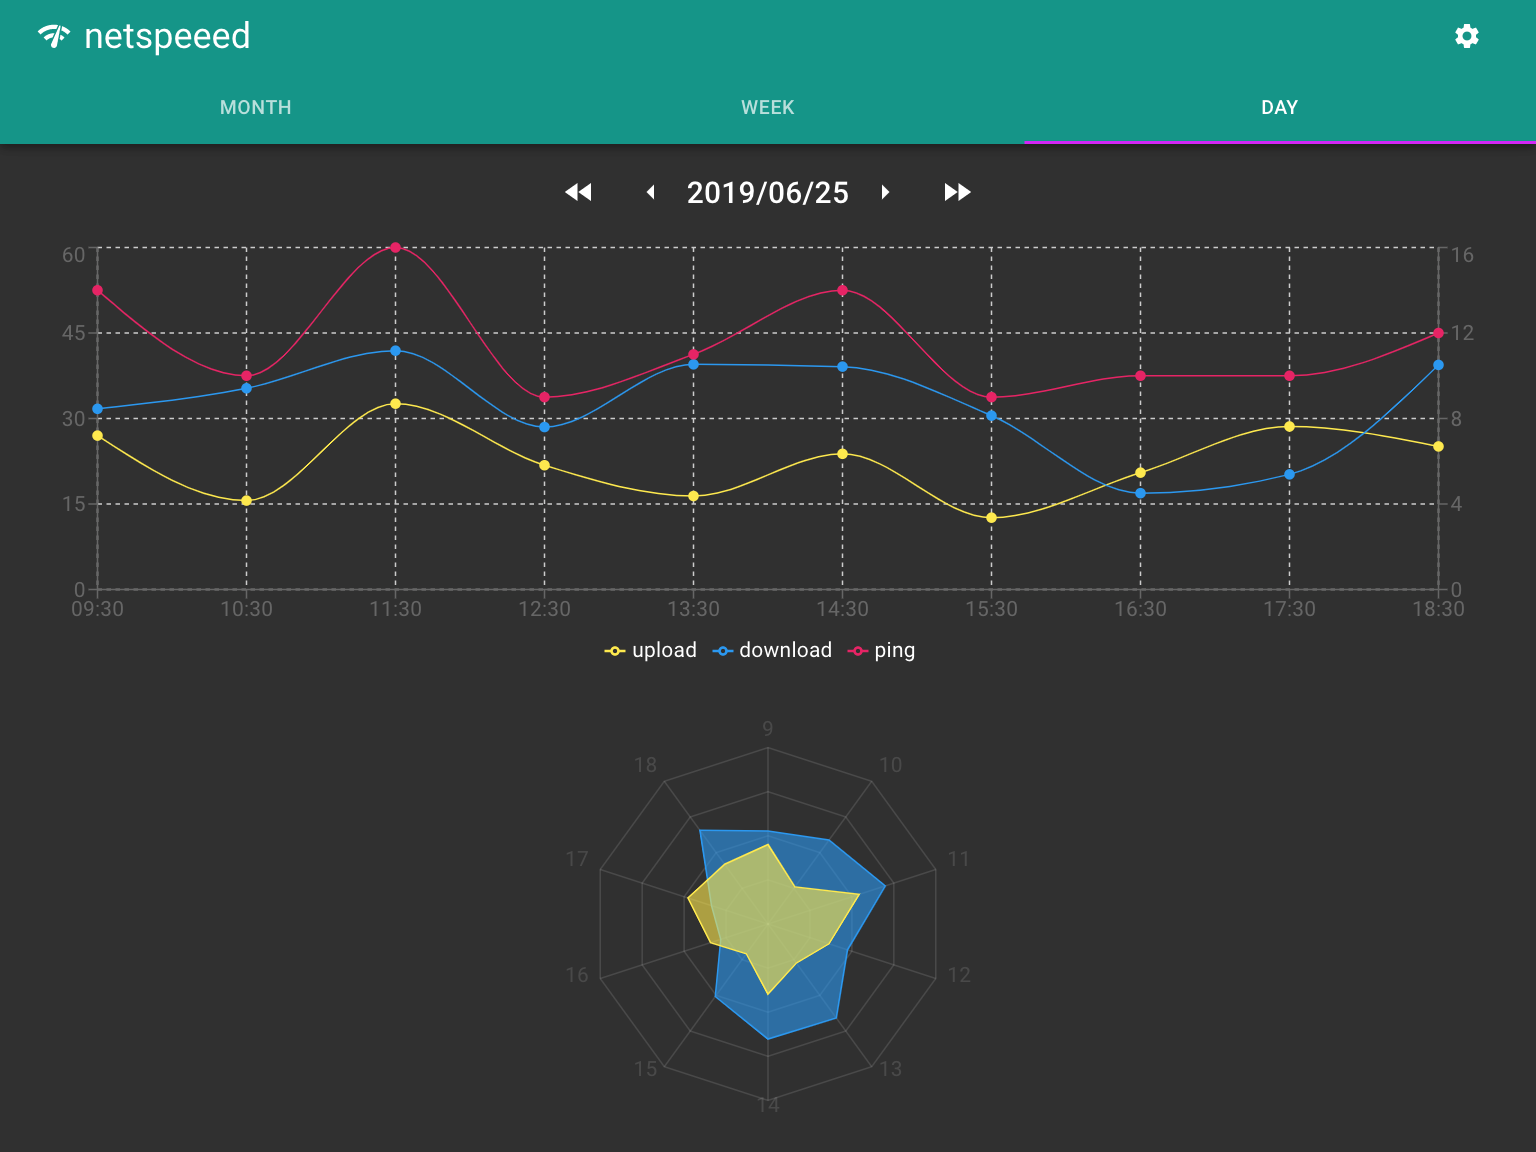
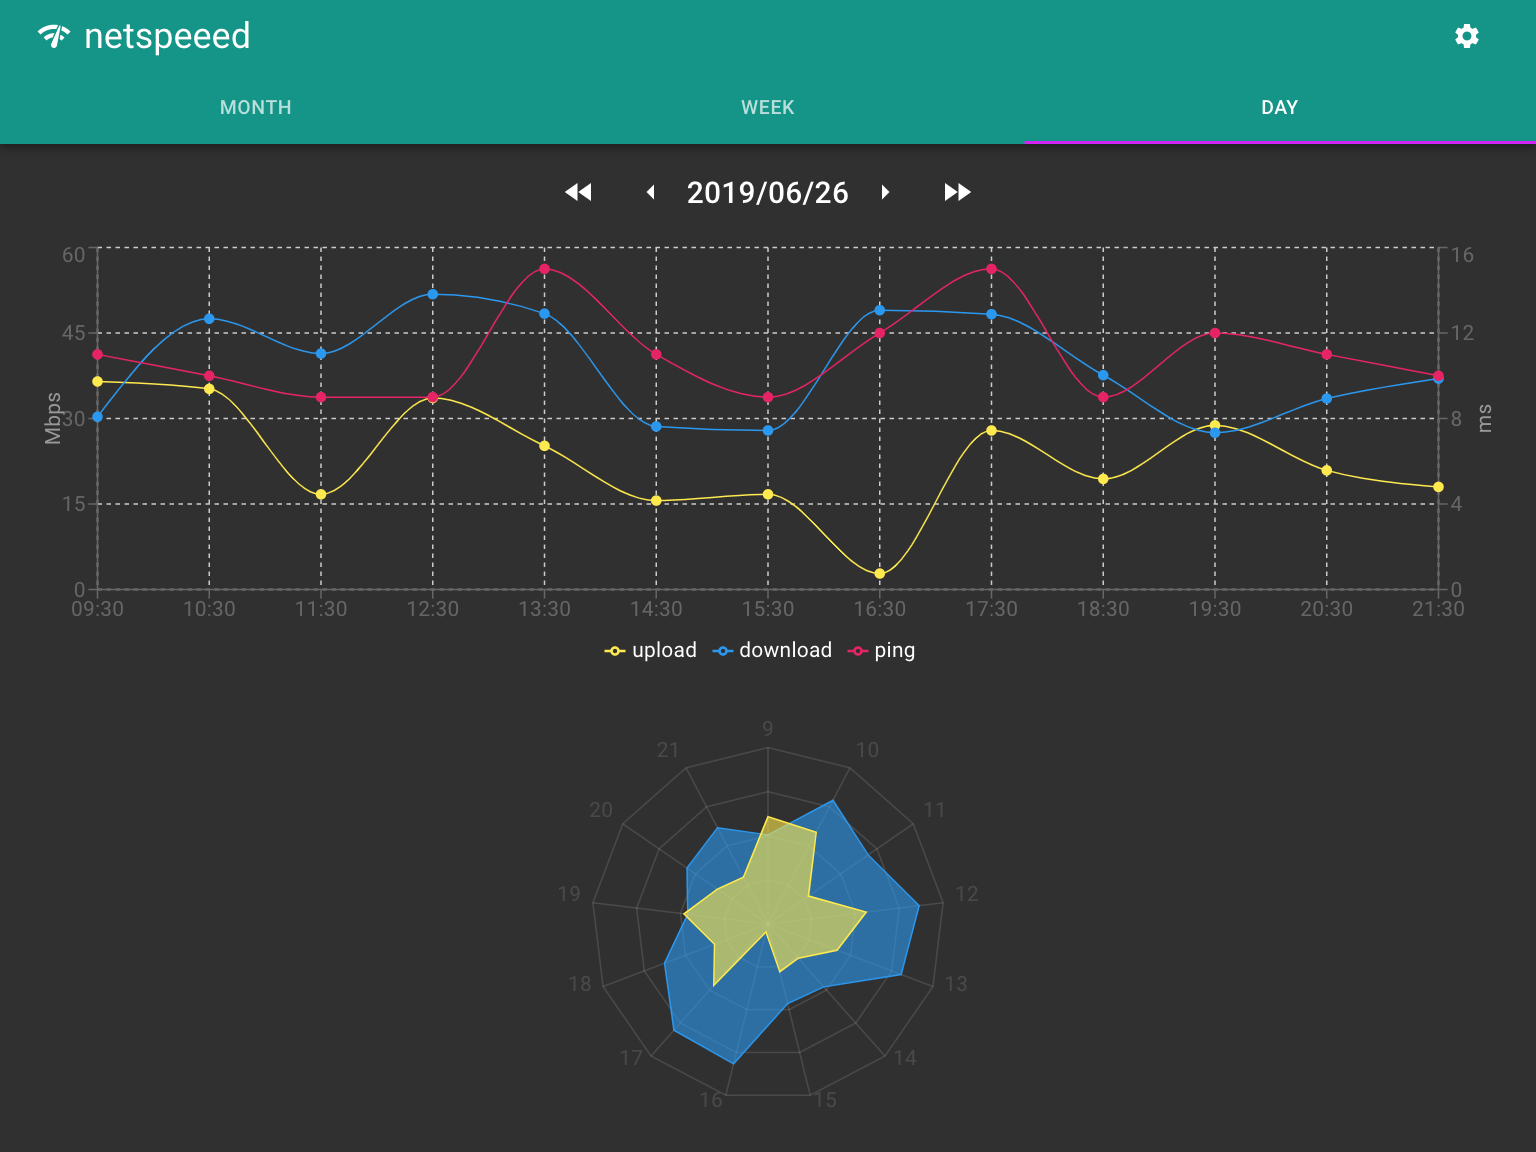
Add y-axis label

diff --git a/src/components/NetworkSpeedChart.tsx b/src/components/NetworkSpeedChart.tsx
@@ -1,3 +1,4 @@
+import { makeStyles, Theme } from '@material-ui/core'
 import blue from '@material-ui/core/colors/blue'
 import pink from '@material-ui/core/colors/pink'
 import yellow from '@material-ui/core/colors/yellow'
@@ -6,6 +7,7 @@ import { round } from 'number-precision'
 import React, { FC, useCallback } from 'react'
 import {
   CartesianGrid,
+  Label,
   Legend,
   Line,
   LineChart,
@@ -16,6 +18,12 @@ import {
 import NetworkSpeed from '../entities/NetworkSpeed'
 import { DateResolution } from '../entities/Viewport'
 
+const useStyles = makeStyles((theme: Theme) => ({
+  label: {
+    fill: theme.palette.text.hint
+  }
+}))
+
 interface Props {
   records: NetworkSpeed[]
   resolution: DateResolution
@@ -23,6 +31,7 @@ interface Props {
 
 const NetworkSpeedChart: FC<Props> = props => {
   const { records, resolution } = props
+  const classes = useStyles()
 
   const selectTimestamp = useCallback(
     resolution !== 'day'
@@ -36,8 +45,16 @@ const NetworkSpeedChart: FC<Props> = props => {
       <LineChart data={records}>
         <CartesianGrid strokeDasharray="3 3" />
         <XAxis dataKey={selectTimestamp} interval="preserveStartEnd" />
-        <YAxis yAxisId="MB" orientation="left" />
-        <YAxis yAxisId="ms" orientation="right" />
+        <YAxis yAxisId="MB" orientation="left">
+          <Label angle={270} className={classes.label}>
+            Mbps
+          </Label>
+        </YAxis>
+        <YAxis yAxisId="ms" orientation="right">
+          <Label angle={270} className={classes.label}>
+            ms
+          </Label>
+        </YAxis>
         <Legend verticalAlign="bottom" height={36} />
         <Line
           name="upload"
